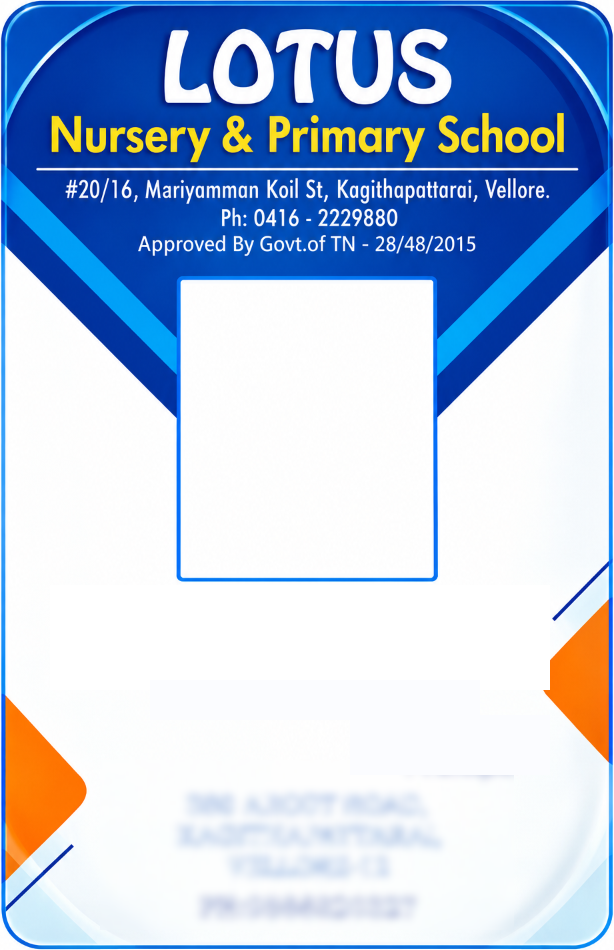
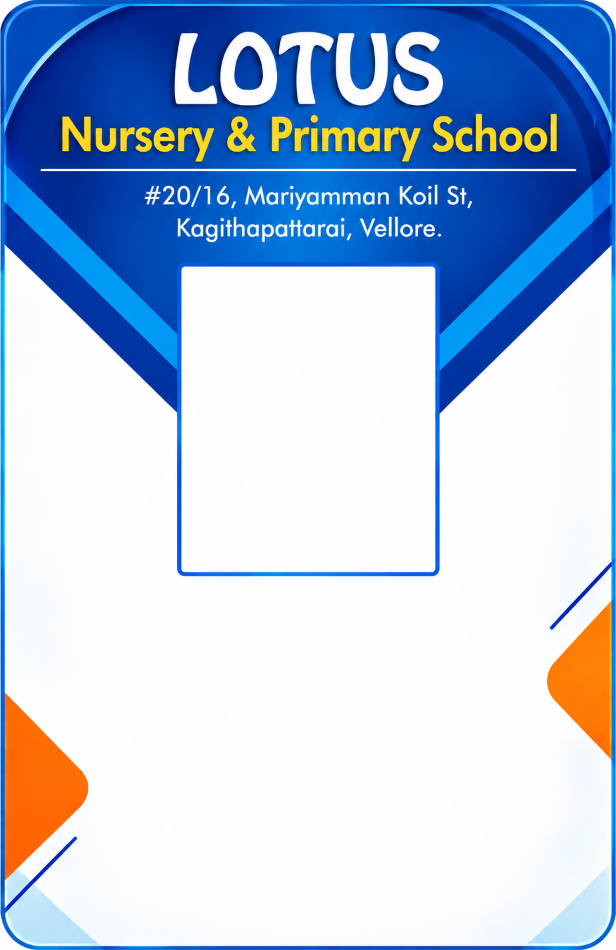
testing bugs

diff --git a/src/pages/Applications.jsx b/src/pages/Applications.jsx
@@ -7,7 +7,7 @@ import { Modal } from '../components/ui/Modal';
 import { Input } from '../components/ui/Input';
 import { Label } from '../components/ui/Label';
 import Pagination from '../components/ui/Pagination';
-import { FileText, Plus, CheckCircle, Trash2, Settings } from 'lucide-react';
+import { FileText, Plus, CheckCircle, Trash2, Settings, Search } from 'lucide-react';
 import { PageLoader } from '../components/ui/Spinner';
 import { toastError, toastSuccess } from '../services/toastService';
 import { useConfirm } from '../components/ui/ConfirmDialog';
@@ -29,6 +29,7 @@ const Applications = () => {
   const itemsPerPage = 10;
   const [customIds, setCustomIds] = useState({ nextApplicationNo: '', applicationFeeAmount: '' });
   const [feeStatusFilter, setFeeStatusFilter] = useState('ALL');
+  const [searchQuery, setSearchQuery] = useState('');
   const [formData, setFormData] = useState({
     applicationNo: '',
     studentName: '',
@@ -205,6 +206,19 @@ const Applications = () => {
   };
 
   const filteredApplications = applications.filter(app => {
+    let match = true;
+    if (searchQuery) {
+      const q = searchQuery.toLowerCase();
+      match = 
+        (app.applicationId || '').toLowerCase().includes(q) ||
+        (app.studentName || '').toLowerCase().includes(q) ||
+        (app.fatherName || '').toLowerCase().includes(q) ||
+        (app.motherName || '').toLowerCase().includes(q) ||
+        (app.fatherPhone || '').includes(q) ||
+        (app.motherPhone || '').includes(q);
+    }
+    if (!match) return false;
+
     if (feeStatusFilter === 'ALL') return true;
     if (feeStatusFilter === 'PAID') return app.feePaid;
     if (feeStatusFilter === 'UNPAID') return !app.feePaid;
@@ -227,6 +241,15 @@ const Applications = () => {
           <p className="text-gray-500  mt-2">Manage student enrollment applications</p>
         </div>
         <div className="flex flex-wrap gap-2 items-center">
+          <div className="relative">
+            <Search className="absolute left-3 top-1/2 -translate-y-1/2 h-4 w-4 text-gray-400" />
+            <Input 
+              placeholder="Search applications..." 
+              className="pl-9 w-full sm:w-64"
+              value={searchQuery}
+              onChange={(e) => setSearchQuery(e.target.value)}
+            />
+          </div>
           <select
             value={feeStatusFilter}
             onChange={(e) => setFeeStatusFilter(e.target.value)}
@@ -264,10 +287,16 @@ const Applications = () => {
               </TableRow>
             </TableHeader>
             <TableBody>
-              {applications.length === 0 ? (
+              {applications.length === 0 && !searchQuery ? (
                 <TableRow>
                   <TableCell colSpan={11} className="text-center h-32 text-gray-500">
                     No applications found.
+                  </TableCell>
+                </TableRow>
+              ) : filteredApplications.length === 0 ? (
+                <TableRow>
+                  <TableCell colSpan={11} className="text-center h-32 text-gray-500">
+                    No results found.
                   </TableCell>
                 </TableRow>
               ) : (
@@ -458,7 +487,13 @@ const Applications = () => {
           </div>
           <div className="space-y-2">
             <Label htmlFor="applicationFeeAmount">Application Fee Amount (₹)</Label>
-            <Input id="applicationFeeAmount" type="number" value={customIds.applicationFeeAmount} onChange={(e) => setCustomIds({...customIds, applicationFeeAmount: e.target.value})} placeholder="e.g. 500" />
+            <Input 
+              id="applicationFeeAmount" 
+              type="text" 
+              value={customIds.applicationFeeAmount} 
+              onChange={(e) => setCustomIds({...customIds, applicationFeeAmount: e.target.value.replace(/\D/g, '')})} 
+              placeholder="e.g. 500" 
+            />
           </div>
 
           <div className="flex justify-end gap-3 pt-4 border-t border-gray-200 mt-6">

diff --git a/src/components/StudentIdCard.jsx b/src/components/StudentIdCard.jsx
@@ -24,29 +24,6 @@ export const StudentIdCard = React.forwardRef(({ student }, ref) => {
   const formattedClass = getRomanClass(rawClass);
   const classDisplay = `${formattedClass} STD`;
 
-  const formatAddressLines = (addr) => {
-    if (!addr) return ['380 ARCOT ROAD,', 'KAGITHAPATTARAI,', 'VELLORE-12'];
-    let cleanStr = addr.replace(/\n/g, ', ').replace(/,+/g, ',').replace(/ +/g, ' ').trim();
-    let parts = cleanStr.split(',').map(p => p.trim()).filter(p => p !== '');
-    
-    let lines = parts;
-    if (parts.length === 4) {
-       lines = [`${parts[0]}, ${parts[1]}`, parts[2], parts[3]];
-    } else if (parts.length === 5) {
-       lines = [`${parts[0]}, ${parts[1]}`, `${parts[2]}, ${parts[3]}`, parts[4]];
-    } else if (parts.length > 5) {
-       let third = Math.ceil(parts.length / 3);
-       lines = [
-         parts.slice(0, third).join(', '),
-         parts.slice(third, third * 2).join(', '),
-         parts.slice(third * 2).join(', ')
-       ];
-    }
-    
-    // Prevent dangling numbers or hyphens by replacing spaces with non-breaking spaces
-    return lines.map(line => line.replace(/ (\d+)/g, '\u00A0$1').replace(/ - /g, '\u00A0-\u00A0'));
-  };
-
   const getPhoneNumbers = () => {
     let nums = [];
     if (student.fatherPhone) nums.push(student.fatherPhone);
@@ -59,7 +36,6 @@ export const StudentIdCard = React.forwardRef(({ student }, ref) => {
     return `PH: ${nums.join(', ')}`;
   };
 
-  const addressLines = formatAddressLines(student.address);
   const studentPhone = getPhoneNumbers();
 
   const renderTwoToneName = (name) => {
@@ -177,15 +153,26 @@ export const StudentIdCard = React.forwardRef(({ student }, ref) => {
       </div>
 
       <div
-        className="absolute z-10 w-full flex flex-col items-center text-center px-4"
+        className="absolute z-10 w-full flex flex-col items-center text-center px-6"
         style={{ top: '780px' }}
       >
-        {addressLines.map((line, idx) => (
-          <p key={idx} className="whitespace-nowrap" style={{ color: '#013e8b', fontSize: '26px', lineHeight: '1.3', fontFamily: "Arial, sans-serif", fontWeight: 700 }}>
-            {line.toUpperCase()}
-          </p>
-        ))}
-        <p className="tracking-wide mt-2 whitespace-nowrap" style={{ color: '#013e8b', fontSize: '26px', fontFamily: "Arial, sans-serif", fontWeight: 900 }}>
+        <p 
+          className="w-full break-words" 
+          style={{ 
+            color: '#013e8b', 
+            fontSize: '26px', 
+            lineHeight: '1.25', 
+            fontFamily: "Arial, sans-serif", 
+            fontWeight: 700,
+            display: '-webkit-box',
+            WebkitLineClamp: 3,
+            WebkitBoxOrient: 'vertical',
+            overflow: 'hidden'
+          }}
+        >
+          {(student.address || '380 ARCOT ROAD, KAGITHAPATTARAI, VELLORE-12').toUpperCase()}
+        </p>
+        <p className="tracking-wide mt-1 whitespace-nowrap" style={{ color: '#013e8b', fontSize: '26px', fontFamily: "Arial, sans-serif", fontWeight: 900 }}>
           {studentPhone}
         </p>
       </div>

diff --git a/src/pages/StudentEdit.jsx b/src/pages/StudentEdit.jsx
@@ -155,7 +155,7 @@ const StudentEdit = () => {
     } else if (validationType === 'bloodGroup') {
       val = val.replace(/[^a-zA-Z\s\-\+]/g, '');
     } else if (validationType === 'occupation') {
-      val = val.replace(/[^a-zA-Z0-9\s\-./()&,]/g, '');
+      val = val.replace(/[^a-zA-Z\s\-./()&,]/g, '');
     } else if (validationType === 'caste') {
       val = val.replace(/[^a-zA-Z\s\-./]/g, '');
     }
@@ -164,7 +164,7 @@ const StudentEdit = () => {
       val = val.slice(0, limit);
     }
     if (typeof setState === 'function') {
-      setState({ ...stateObj, [field]: val });
+      setState(prev => ({ ...prev, [field]: val }));
     }
   };
 
@@ -232,7 +232,7 @@ const StudentEdit = () => {
       setFormData({
         admissionNumber: student.admissionNumber || '',
         studentName: student.studentName || '',
-        photoUrl: student.photoUrl || '',
+        photoUrl: student.photoUrl || student.passport_photo || '',
         dateOfBirth: student.dateOfBirth ? student.dateOfBirth.split('T')[0] : '',
         gender: student.gender || '',
         bloodGroup: student.bloodGroup || '',
@@ -880,7 +880,7 @@ const StudentEdit = () => {
               </div>
               <div className="space-y-2">
                 <Label>EMIS No</Label>
-                <Input name="emisNo" value={formData.emisNo || formData.emisNumber} maxLength={10} onChange={(e) => handleValidatedChange('emisNo', e, 'numbers', formData, (obj) => setFormData({...obj, emisNumber: obj.emisNo}), 10)} placeholder="10 digits" />
+                <Input name="emisNo" value={formData.emisNo || formData.emisNumber} maxLength={10} onChange={(e) => handleValidatedChange('emisNo', e, 'numbers', formData, setFormData, 10)} placeholder="10 digits" />
               </div>
               <div className="space-y-2">
                 <Label>Admission Date</Label>
@@ -953,7 +953,7 @@ const StudentEdit = () => {
               </div>
               <div className="space-y-2">
                 <Label>Guardian Name</Label>
-                <Input name="guardianName" value={formData.guardianName || formData.guardian} maxLength={100} onChange={(e) => handleValidatedChange('guardianName', e, 'parentName', formData, (obj) => setFormData({...obj, guardian: obj.guardianName}), 100)} placeholder="Guardian name" />
+                <Input name="guardianName" value={formData.guardianName || formData.guardian} maxLength={100} onChange={(e) => handleValidatedChange('guardianName', e, 'parentName', formData, setFormData, 100)} placeholder="Guardian name" />
               </div>
               <div className="space-y-2">
                 <Label>WhatsApp Number</Label>

diff --git a/src/pages/Admissions.jsx b/src/pages/Admissions.jsx
@@ -187,7 +187,7 @@ const Admissions = () => {
     } else if (validationType === 'bloodGroup') {
       val = val.replace(/[^a-zA-Z\s\-\+]/g, '');
     } else if (validationType === 'occupation') {
-      val = val.replace(/[^a-zA-Z0-9\s\-./()&,]/g, '');
+      val = val.replace(/[^a-zA-Z\s\-./()&,]/g, '');
     } else if (validationType === 'caste') {
       val = val.replace(/[^a-zA-Z\s\-./]/g, '');
     }
@@ -195,7 +195,7 @@ const Admissions = () => {
     if (limit && val.length > limit) {
       val = val.slice(0, limit);
     }
-    setState({ ...stateObj, [field]: val });
+    setState(prev => ({ ...prev, [field]: val }));
   };
 
   const handleApplicationAdmission = async (appId, classList) => {
@@ -514,7 +514,9 @@ const Admissions = () => {
         city: data.city || '',
         state: data.state || '',
         pincode: data.pincode || '',
-        academicYear: data.academicYear || ''
+        academicYear: data.academicYear || '',
+        photoUrl: data.photoUrl || '',
+        passport_photo: data.passport_photo || data.photoUrl || ''
       });
       setSelectedStudent(student);
       setIsEditing(true);
@@ -539,7 +541,7 @@ const Admissions = () => {
     } else if (name === 'whatsappNumber') {
       val = val.replace(/[^0-9*Xx]/g, '').slice(0, 10);
     } else if (name === 'fatherOccupation' || name === 'motherOccupation') {
-      val = val.replace(/[^a-zA-Z0-9\s\-./()&,]/g, '').slice(0, 100);
+      val = val.replace(/[^a-zA-Z\s\-./()&,]/g, '').slice(0, 100);
     } else if (name === 'caste') {
       val = val.replace(/[^a-zA-Z\s\-./]/g, '').slice(0, 50);
     } else if (name === 'emisNumber' || name === 'emisNo') {
@@ -548,6 +550,8 @@ const Admissions = () => {
       val = val.replace(/[^0-9*Xx]/g, '').slice(0, 12);
     } else if (name === 'bloodGroup') {
       val = val.replace(/[^a-zA-Z\s\-\+]/g, '');
+    } else if (name === 'city' || name === 'state' || name === 'religion' || name === 'community' || name === 'nationality' || name === 'studentName') {
+      val = val.replace(/[^a-zA-Z\s]/g, '');
     }
     setEditForm(prev => ({ ...prev, [name]: val }));
   };

diff --git a/src/pages/Students.jsx b/src/pages/Students.jsx
@@ -633,8 +633,8 @@ const Students = () => {
                 <TableBody>
                   {filteredStudents.length === 0 ? (
                     <TableRow>
-                      <TableCell colSpan={5} className="text-center h-32 text-gray-500">
-                        {viewMode === 'SEARCH_RESULTS' ? 'No matching students found.' : 'No students found in this section.'}
+                      <TableCell colSpan={9} className="text-center h-32 text-gray-500">
+                        {viewMode === 'SEARCH_RESULTS' ? 'No results found.' : 'No students found in this section.'}
                       </TableCell>
                     </TableRow>
                   ) : (

diff --git a/src/pages/PrintExport.jsx b/src/pages/PrintExport.jsx
@@ -315,7 +315,7 @@ const PrintExport = () => {
                       {filteredStudents.length === 0 ? (
                         <TableRow>
                           <TableCell colSpan={colSpan} className="text-center h-32 text-gray-500">
-                            No students found matching your criteria.
+                            {searchQuery ? 'No results found.' : 'No students found matching your criteria.'}
                           </TableCell>
                         </TableRow>
                       ) : activeFields.length === 0 ? (

diff --git a/src/pages/PendingFees.jsx b/src/pages/PendingFees.jsx
@@ -810,7 +810,7 @@ const PendingFees = () => {
                 {filteredStudents.length === 0 ? (
                   <TableRow>
                     <TableCell colSpan={13} className="text-center h-32 text-gray-500 text-xs">
-                      No students match your filters.
+                      {searchQuery ? 'No results found.' : 'No students match your filters.'}
                     </TableCell>
                   </TableRow>
                 ) : (

diff --git a/src/pages/OldStudents.jsx b/src/pages/OldStudents.jsx
@@ -459,7 +459,7 @@ const OldStudents = () => {
                 {filteredStudents.length === 0 ? (
                   <TableRow>
                     <TableCell colSpan={11} className="text-center h-32 text-gray-500">
-                      No old students match the filters.
+                      {searchQuery ? 'No results found.' : 'No old students match the filters.'}
                     </TableCell>
                   </TableRow>
                 ) : (

diff --git a/src/pages/Payments.jsx b/src/pages/Payments.jsx
@@ -778,7 +778,7 @@ const Payments = () => {
               {filteredPayments.length === 0 ? (
                 <TableRow>
                   <TableCell colSpan={8} className="text-center h-32 text-gray-500">
-                    No payment history found.
+                    {searchQuery ? 'No results found.' : 'No payment history found.'}
                   </TableCell>
                 </TableRow>
               ) : (

diff --git a/src/pages/Activities.jsx b/src/pages/Activities.jsx
@@ -183,7 +183,7 @@ const Activities = () => {
               {filteredActivities.length === 0 ? (
                 <TableRow>
                   <TableCell colSpan={7} className="text-center h-32 text-gray-500">
-                    No activities found.
+                    {searchQuery ? 'No results found.' : 'No activities found.'}
                   </TableCell>
                 </TableRow>
               ) : (

diff --git a/src/components/TeacherIdCard.jsx b/src/components/TeacherIdCard.jsx
@@ -1,7 +1,7 @@
 import React, { useEffect, useState } from 'react';
 import { User } from 'lucide-react';
 import { getImageUrl } from '../utils/imageUrl';
-import templateImg from '../assets/id_card_template.png';
+import templateImg from '../assets/final_template.png';
 import principalSignatureImg from '../assets/principal_signature.png';
 
 export const TeacherIdCard = React.forwardRef(({ teacher }, ref) => {

diff --git a/src/pages/OtherFees.jsx b/src/pages/OtherFees.jsx
@@ -234,7 +234,7 @@ const OtherFees = () => {
               {filteredCharges.length === 0 ? (
                 <TableRow>
                   <TableCell colSpan={8} className="text-center h-32 text-gray-500">
-                    No Other Fees found.
+                    {searchQuery ? 'No results found.' : 'No Other Fees found.'}
                   </TableCell>
                 </TableRow>
               ) : (
